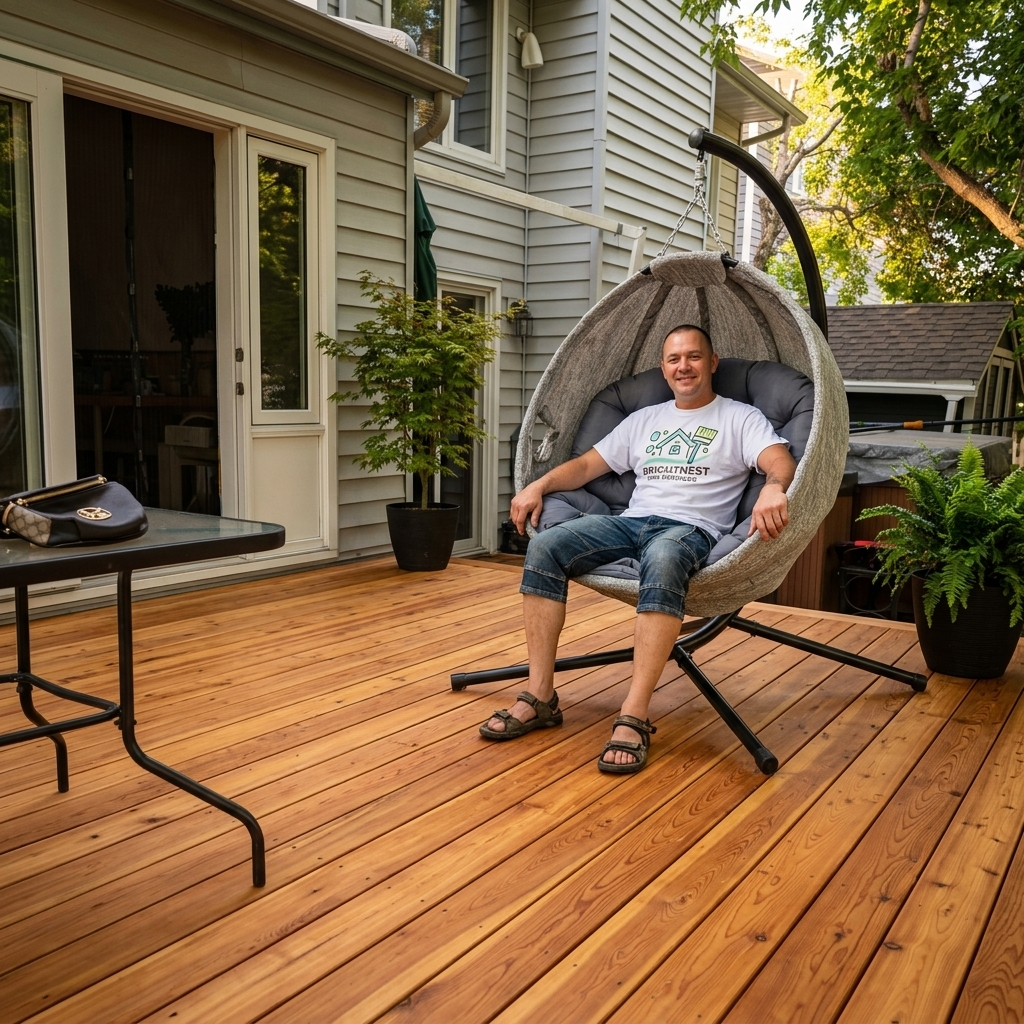
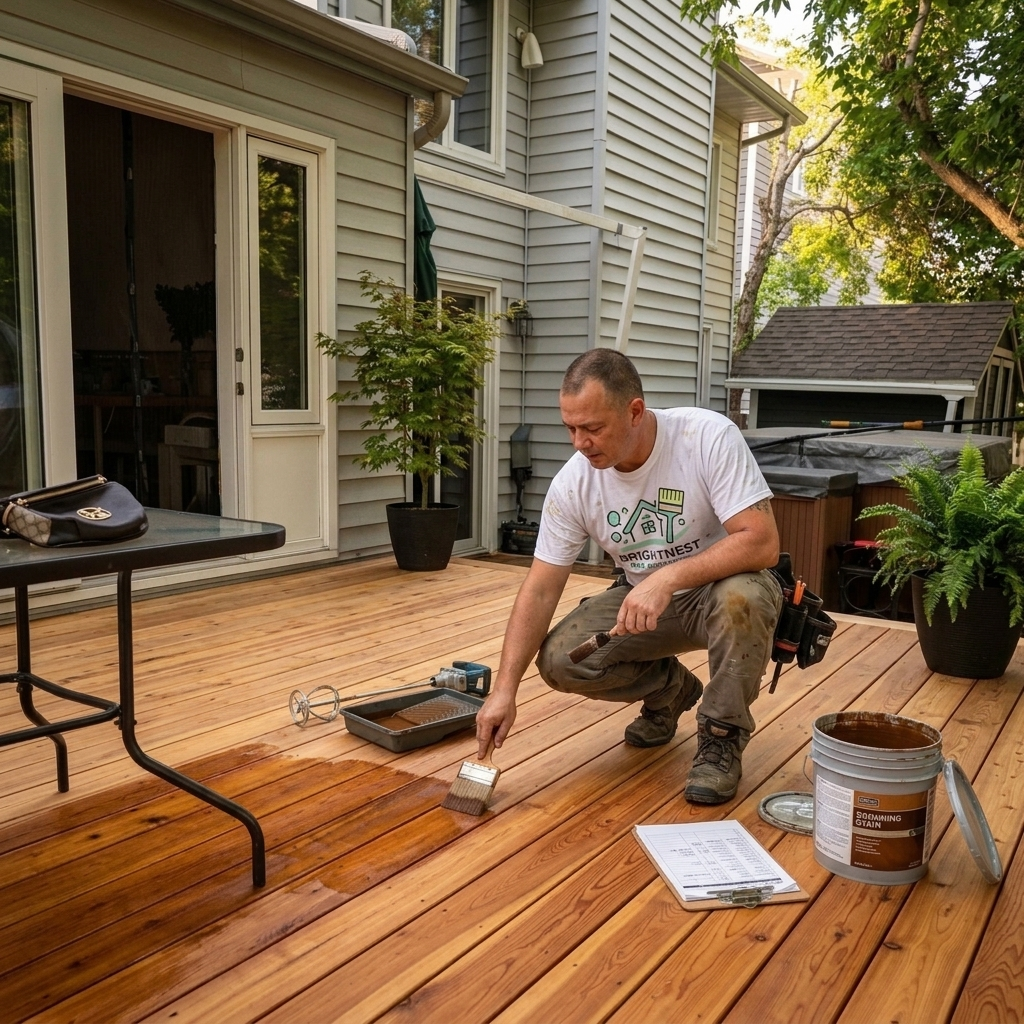
fix: resolve mojibake artifacts and update hero image to show active work

diff --git a/src/widgets/hero-section/ui/hero-section.tsx b/src/widgets/hero-section/ui/hero-section.tsx
@@ -157,8 +157,7 @@ export function HeroSection() {
                       className="object-cover transition-transform duration-500 group-hover:scale-105"
                     />
                     <div className="absolute top-2 right-2 sm:top-2.5 sm:right-2.5">
-                      <span className="inline-flex items-center gap-1 rounded-full bg-emerald-600/90 px-2 py-0.5 text-[9px] sm:text-[11px] font-semibold text-white shadow-sm backdrop-blur-sm">
-                        âœ“ Completed Deck
+                      <span className="inline-flex items-center gap-1 rounded-full bg-emerald-600/90 px-2 py-0.5 text-[9px] sm:text-[11px] font-semibold text-white shadow-sm backdrop-blur-sm">&#10004; Deck Staining
                       </span>
                     </div>
                     <div className="absolute inset-x-0 bottom-0 bg-gradient-to-t from-black/80 via-black/30 to-transparent p-2.5 sm:p-3">

diff --git a/src/widgets/site-header/ui/trust-strip.tsx b/src/widgets/site-header/ui/trust-strip.tsx
@@ -38,7 +38,7 @@ export function TrustStrip() {
 function Divider() {
   return (
     <span aria-hidden="true" className="text-[var(--color-border)]">
-      Â·
+      &middot;
     </span>
   );
 }
